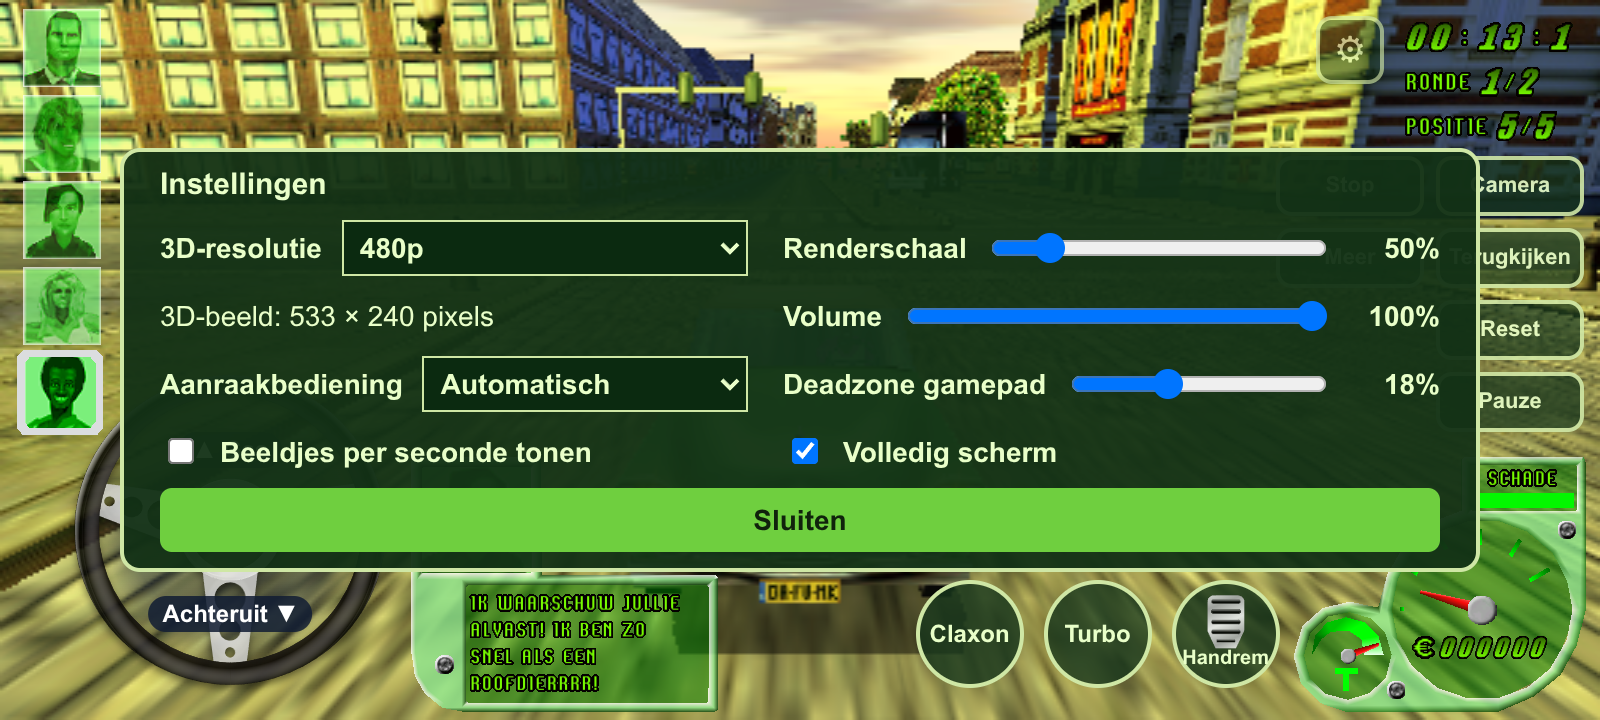
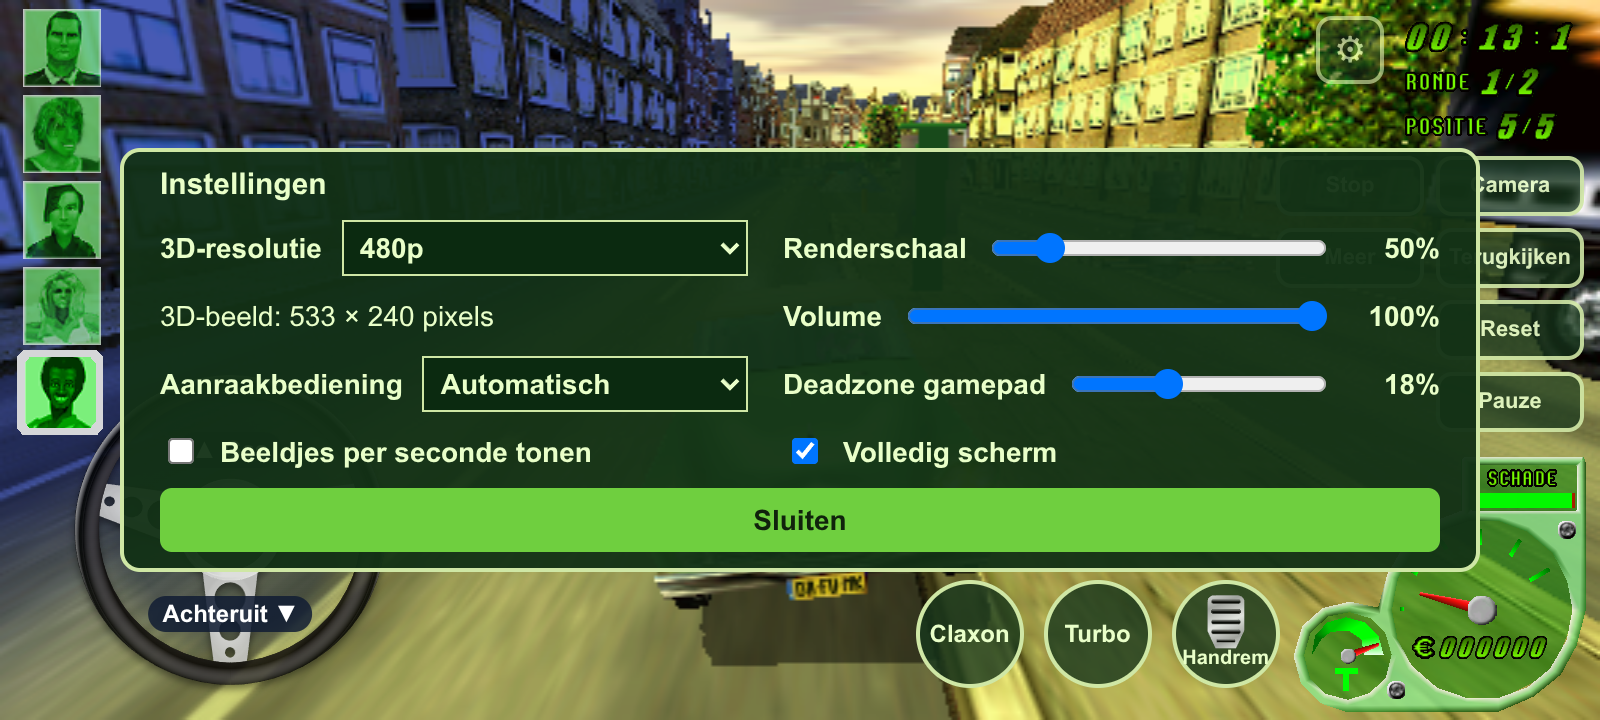
Keep wheels at their size between ticks (1.1.3)
Wheels have their own world matrix and turn about 60 degrees per tick at
speed. Blended element by element between ticks they shrank to as little as
66% and skewed. A matrix turning more than 20 degrees in a tick now keeps
the latest tick's rotation and blends its position only. Add
tools/check-wheels.mjs and its evidence.

diff --git a/source/render/d3d-renderer.js b/source/render/d3d-renderer.js
@@ -23,6 +23,10 @@ const NO_TEXTURE = 0xFFFF;
 const MAX_ARRAYS = 6;
 // A tick moving a matrix further than this is a teleport, not motion: no blending.
 const TELEPORT_DIST2 = 30 * 30;
+// A matrix turning further than this in one tick, such as a wheel at speed, keeps the latest tick's
+// rotation and blends its position only: blended element by element, two poses 60 degrees apart
+// give a wheel shrunk to 87% and skewed halfway between ticks. cos(20 degrees).
+const SPIN_COS = Math.cos(20 * Math.PI / 180);
 const TICK_MS = 1000 / 60;      // TICK_SECONDS in race-runner.js
 // Vertex arrays in game memory. gfx_wolk and gfx_bwlk sort their 70 slots every frame, so one
 // address holds another puff each tick: FUN_00446fe0, FUN_0043de00. Flag: FUN_0043fff0.
@@ -233,6 +237,18 @@ void main() {
 
 /** One coordinate of the eye of a view matrix, from the row of memory it is the dot product with. */
 const eyeAxis = (v, o) => -(v[12] * v[o] + v[13] * v[o + 1] + v[14] * v[o + 2]);
+
+/** Cosine of the angle of the rotation between two matrices' 3x3 parts, rows normalised for scale. */
+function turnCos(a, q, b, o) {
+  let trace = 0;
+  for (let r = 0; r < 12; r += 4) {
+    const la = Math.hypot(a[q + r], a[q + r + 1], a[q + r + 2]);
+    const lb = Math.hypot(b[o + r], b[o + r + 1], b[o + r + 2]);
+    if (!la || !lb) return 1;
+    trace += (a[q + r] * b[o + r] + a[q + r + 1] * b[o + r + 1] + a[q + r + 2] * b[o + r + 2]) / (la * lb);
+  }
+  return (trace - 1) / 2;
+}
 
 class Frame {
   constructor() {
@@ -1330,6 +1346,13 @@ export class D3DRenderer {
       const dz = bm[o + 14] - am[q + 14];
       if (dx * dx + dy * dy + dz * dz > TELEPORT_DIST2) {
         for (let j = 0; j < 16; j++) pal[o + j] = bm[o + j];
+        continue;
+      }
+      if (turnCos(am, q, bm, o) < SPIN_COS) {
+        for (let j = 0; j < 16; j++) pal[o + j] = bm[o + j];
+        pal[o + 12] = am[q + 12] + dx * alpha;
+        pal[o + 13] = am[q + 13] + dy * alpha;
+        pal[o + 14] = am[q + 14] + dz * alpha;
         continue;
       }
       for (let j = 0; j < 16; j++) pal[o + j] = am[q + j] + (bm[o + j] - am[q + j]) * alpha;

diff --git a/public/src/main.js b/public/src/main.js
@@ -29438,6 +29438,7 @@ var MAX_DYNAMIC_FLOATS = 2e5;
 var NO_TEXTURE = 65535;
 var MAX_ARRAYS = 6;
 var TELEPORT_DIST2 = 30 * 30;
+var SPIN_COS = Math.cos(20 * Math.PI / 180);
 var TICK_MS = 1e3 / 60;
 var SMOKE_VERTS = [7295120, 7316120];
 var BWLK_VERTS = [7094792, 7115792];
@@ -29643,6 +29644,16 @@ void main() {
   c = vec4(hud.rgb + texture(uWorld, sharp(uWorldSize)).rgb * (1.0 - hud.a), 1.0);
 }`;
 var eyeAxis = (v, o) => -(v[12] * v[o] + v[13] * v[o + 1] + v[14] * v[o + 2]);
+function turnCos(a, q, b, o) {
+  let trace = 0;
+  for (let r = 0; r < 12; r += 4) {
+    const la = Math.hypot(a[q + r], a[q + r + 1], a[q + r + 2]);
+    const lb = Math.hypot(b[o + r], b[o + r + 1], b[o + r + 2]);
+    if (!la || !lb) return 1;
+    trace += (a[q + r] * b[o + r] + a[q + r + 1] * b[o + r + 1] + a[q + r + 2] * b[o + r + 2]) / (la * lb);
+  }
+  return (trace - 1) / 2;
+}
 var Frame = class {
   constructor() {
     this.matrices = new Float32Array(MAX_MATRICES * 16);
@@ -30723,6 +30734,13 @@ var D3DRenderer = class {
       const dz = bm[o + 14] - am[q + 14];
       if (dx * dx + dy * dy + dz * dz > TELEPORT_DIST2) {
         for (let j = 0; j < 16; j++) pal[o + j] = bm[o + j];
+        continue;
+      }
+      if (turnCos(am, q, bm, o) < SPIN_COS) {
+        for (let j = 0; j < 16; j++) pal[o + j] = bm[o + j];
+        pal[o + 12] = am[q + 12] + dx * alpha;
+        pal[o + 13] = am[q + 13] + dy * alpha;
+        pal[o + 14] = am[q + 14] + dz * alpha;
         continue;
       }
       for (let j = 0; j < 16; j++) pal[o + j] = am[q + j] + (bm[o + j] - am[q + j]) * alpha;

diff --git a/docs/intentional-differences.md b/docs/intentional-differences.md
@@ -36,7 +36,7 @@ A row says what the port does. It does not say the row was verified: what was ch
 | Simulation rate | One pass of the main loop per rendered frame, at whatever rate the machine gives, with a smoothed `dt`. Measured under Wine: nothing in the program limits the rate except `Flip`. Under Xvfb with llvmpipe, where `Flip` does not wait, it runs at 317 to 393 ticks per second, and on a clean clock the gas pedal hardly rises there (highest speed 1.25 to 12.7 m/s in 12 s) | Fixed 60 passes per second. `dt` comes from `hook!updateClock`, see Clock ring | Reasoning in `original-behavior.md`, timing section. It was not possible to establish what rate the developers tuned at. Held to 60 ticks per second from outside, the original and the port agree by movement state: [`validation.md`](validation.md). What the owner's fixes part 13 covers runs as it did at 25 FPS: chase camera, skid marks, smoke, police brake, car lighting and the rest in `tools/recomp/owner-fixes/README.md`. Other logic that runs per pass stays at its 60-tick values. Against a machine at 30 FPS: the copalert level falls from 100 to 0 in 0.25 s against 0.5 s; particle counts differ (bases 15 and 35 give 9 and 29 against 4 and 24); AI re-placement tries at 20% per tick, so 12 times a second against 6; cylinder pops draw one or two `rand()` per pass and radio states step once per pass, so the random stream and radio timing differ too |
 | Clock ring | `FUN_004a6700` fills a 4-entry ring from a float counter. The first sample holds the counter's whole value at clock init, the second the time `L` from clock init to the first tick. Ticks 1 to 3 are capped at 0.1 s on any machine up for more than a second, tick 4 only if `L` is above about 0.68 s at 60 Hz. Measured under Wine at 60 ticks: `L` 8.42 ms, `dt` in ticks 1 to 6 0.1, 0.1, 0.1, 0.0158, 0.0185, 0.0166, tick 4 not capped at any rate tried. Clock noise puts `dt*300` just under or over 5, so the truncating gas step of `FUN_0046f2a0` mixes +4 and +5: 21 to 23 ticks to full gas | `hook!updateClock` in `source/host/race.js` keeps the ring, so race start and dialog returns read as in the original. First sample: the clock's value at init. Second: `INIT_TO_FIRST_TICK`, 8.4 ms, as measured. Every later sample is exactly 1/60 s. A steady ring gives `dt` one tick with its last bit alternating, in place of the clock noise | `dt` in ticks 1 to 6: 0.1, 0.1, 0.1, 0.0156, 0.0167, 0.0167. Physics delta in ticks 4, 5, 6: 0.0789, 0.0665, 0.0582 against 0.0790, 0.0669, 0.0585, so the physics lead at GO is close to the original's. GO at pass 283 against 280 or 281, since this `dt` has no noise. The alternation is deliberate and measured, not noise: `dt*300` falls just under and over 5, so the gas step mixes +4 and +5, 23 ticks to full gas (4, 9, 13, 18, 22, 27...) against 21 to 23 in the original (5, 9, 13, 18, 22, 27...). With a fixed `dt` it took 19 ticks (5, 10, 15...). 8.4 ms is that machine's `L`: another machine will differ, and a machine with `L` above about 0.68 s would cap tick 4 |
 | Traffic pushes | `FUN_00428950` and `FUN_00415E40` push traffic and path vehicles once per frame with no time step, so traffic gets stronger with the frame rate up to 66 FPS and lifts its nose | Scaled by `min(1, tick * 25)`, as the owner's `A2-Racer-4-Fixes` part 9 does (`traffic_mass`): one whole push per 1/25 s | Highest nose rise at 60 ticks with whole pushes 0.742, against 0.74 in the owner's table for the original under Wine. With the scale 0.208, against 0.18 for his patched game under Wine. The means cover more starts of more kinds than his, so they are not comparable. So this follows the patched game, not the unpatched one. His `trailer_push` is not applied: that code has no route in the shipped game |
-| Rendering rate | Same as simulation | Browser's rate, no cap. World matrices, the camera and moving vertices blend between the last two ticks. The camera cuts only when its eye jumps more than 30 units in one tick, as on a camera switch. `gfx_wolk` smoke, `gfx_bwlk` and all particles including sparks show the latest tick, because their slots are re-sorted or shift, so nothing can be paired across ticks | Up to one tick (16.7 ms) of added visual latency. On displays above 60 Hz smoke, `gfx_bwlk` and particles step at 60 Hz while the rest moves smoothly. Blob shadows blend with their car. The player's shadow moves with its car: its polygons of the latest tick are carried from the car's pose of that tick to the car's blended pose, so it stays where the game put it under the car. Also not blended: skid-mark strips whose vertex count changed, and any moving draw whose first vertex moved more than 30 units. Under a pause or quit dialog and at the end of a race the picture stays on its key tick's frame |
+| Rendering rate | Same as simulation | Browser's rate, no cap. World matrices, the camera and moving vertices blend between the last two ticks. A matrix that turns more than 20 degrees in a tick, such as a wheel at speed, keeps the latest tick's rotation and blends only its position, so a wheel keeps its size and shape. The camera cuts only when its eye jumps more than 30 units in one tick, as on a camera switch. `gfx_wolk` smoke, `gfx_bwlk` and all particles including sparks show the latest tick, because their slots are re-sorted or shift, so nothing can be paired across ticks | Up to one tick (16.7 ms) of added visual latency. On displays above 60 Hz smoke, `gfx_bwlk` and particles step at 60 Hz while the rest moves smoothly. Blob shadows blend with their car. The player's shadow moves with its car: its polygons of the latest tick are carried from the car's pose of that tick to the car's blended pose, so it stays where the game put it under the car. Also not blended: skid-mark strips whose vertex count changed, and any moving draw whose first vertex moved more than 30 units. Under a pause or quit dialog and at the end of a race the picture stays on its key tick's frame |
 | Falling behind | `dt` capped at 0.1 s, so game time slows while `GetTickCount` timers keep real time, and a slow machine loses race time | Elapsed time capped at 0.25 s per frame and at most 6 ticks per displayed frame, the rest dropped. `dt` stays one tick | Same direction: game time slows rather than jumps. Race timers slow with the game instead of keeping real time. No check reached this: the benchmark held 60 FPS |
 | FPS gates | `FUN_0041cae0` skips AI re-placement below 15 FPS. `FUN_0043dd90` and `FUN_00446c70` skip spawns at about 12. `FUN_0043de00` and `FUN_00446fe0` wipe effects below 10. `FUN_0044cb30` lowers visible chunks by 1 per tick below 10, down to 15 or 25 | `dt` reads 0.1 for the first 3 ticks and about one tick from tick 4 on, whatever the device does | The gates do not fire after the start, even when the browser falls behind. `FUN_0044cb30` needs state 0 and the first ticks are in state 1, so the view distance governor never fires. View distance and effects stay full on a slow device: the price of a fixed tick. The 8-bit path, where this shows most: see 8-bit path: slow machines |
 | Focus loss | Message pump blocks while inactive. Wall-clock race timers keep running, and the first ticks after the return are capped | Ticks and the virtual clock stop, sound suspends, keys and touches release; the clock does not jump on return | Silence while away, as in the original (inferred from DirectSound's documentation), but sound positions stand still here. Timers differ on purpose: a hidden tab cannot lose a race |

diff --git a/README.md b/README.md
@@ -2,7 +2,7 @@
 
 **Play it: <https://games.nostalgiarealm.com/a2racer4/>**
 
-Version 1.1.2. [Changelog](CHANGELOG.md), [release notes](docs/releases/1.1.2.md). Downloads: [GitHub](https://github.com/NostalgiaRealm/A2-Racer-4/releases/latest), [GitLab](https://gitlab.com/Nostalgia_Realm/A2-Racer-4/-/releases). Repositories: [GitHub](https://github.com/NostalgiaRealm/A2-Racer-4), [GitLab](https://gitlab.com/Nostalgia_Realm/A2-Racer-4).
+Version 1.1.3. [Changelog](CHANGELOG.md), [release notes](docs/releases/1.1.3.md). Downloads: [GitHub](https://github.com/NostalgiaRealm/A2-Racer-4/releases/latest), [GitLab](https://gitlab.com/Nostalgia_Realm/A2-Racer-4/-/releases). Repositories: [GitHub](https://github.com/NostalgiaRealm/A2-Racer-4), [GitLab](https://gitlab.com/Nostalgia_Realm/A2-Racer-4).
 
 A port of the Dutch racing game from 2000 to WebGL and Three.js, built from the original game files. The race itself is the original code: `spel.dat` is recompiled from x86 to WebAssembly, so its physics, AI, rules and HUD logic run as shipped. The menu is rewritten by hand from the original forms and code. All artwork, music, speech and text are the originals, in Dutch.
 
@@ -149,6 +149,7 @@ They do not start a server or bundle anything. Have `npm start` running in anoth
 | `node tools/check-driving.mjs --json evidence/driving/amsterdam-no-opponents.json` | Scripted driving, no opponents, prints speeds. Repeatable | No |
 | `node tools/check-owner-fixes.mjs --out evidence/owner-fixes/races-with-fixes.json` | Whole bot races on all 10 etappes, reading the state of the owner's added code: 25 Hz tick, camera, `hung_check`. `--game` points at another build | No |
 | `node tools/check-shadow.mjs --hz 144 --out evidence/shadow/summary-144hz.json` | The player's shadow in its car's frame per presented frame, with the bot on Amsterdam. `--hz` stands in for a display rate | Yes |
+| `node tools/check-wheels.mjs --hz 144 --out evidence/wheels/summary-144hz.json` | The wheels' matrices as drawn between ticks, with the bot on Amsterdam: 1 is a wheel at its own size | Yes |
 | `node tools/check-traffic.mjs --hz 60` | Traffic nose rise on the owner's method. Also `--hz 30` and `--whole-push`, one JSON line each; `evidence/traffic/nose-rise.jsonl` holds the four | No |
 | `node tools/run-bot.mjs` | A whole race in Node with opponents and traffic. Prints progress and what it writes to `game.ini` | No |
 | `node tools/build-race-lists.mjs` | Boots all 10 etappes with all 8 cars for 2 s, and all 10 at `RESOLUTION` 0 and 1, to list the files each race reads. Not a gameplay check | No |

diff --git a/docs/releases/1.1.3.md b/docs/releases/1.1.3.md
@@ -1,0 +1,27 @@
+# A2 Racer 4 v1.1.3 — the wheels
+
+The wheels of the cars no longer pulse. The browser port draws the picture between the last two game ticks so it runs smoothly at any display rate. Wheels at speed turn about 60 degrees per tick, and drawing them halfway between two such poses made them shrink and skew, by up to a third, every tick. Now a wheel keeps the turn the game gave it in the latest tick and only its position follows the car smoothly, so it always has its own size and shape, as on Windows and under Wine. Together with [1.1.2](1.1.2.md), which fixed the player's shadow, the car now looks as steady as in the original.
+
+Download from [GitHub](https://github.com/NostalgiaRealm/A2-Racer-4/releases/tag/v1.1.3) or [GitLab](https://gitlab.com/Nostalgia_Realm/A2-Racer-4/-/releases/v1.1.3), or play at <https://games.nostalgiarealm.com/a2racer4/>. [Changelog](../../CHANGELOG.md).
+
+## Downloads
+
+| Content | Files |
+|---|---|
+| Linux x64 | `A2-Racer-4-1.1.3-linux-x86_64.AppImage`, `A2-Racer-4-1.1.3-linux-x64.tar.gz` |
+| Windows x64 | `A2-Racer-4-1.1.3-win-x64.exe` (installer) |
+| macOS Apple Silicon | `A2-Racer-4-1.1.3-mac-arm64.dmg` |
+| macOS Intel | `A2-Racer-4-1.1.3-mac-x64.dmg` |
+| Source of the port | `A2-Racer-4-1.1.3-source.tar.gz`. The web build: `npm ci`, `npm run build`, then serve `dist/` |
+| Decompile | Unchanged since 1.0.0: in [the 1.0.0 release](https://github.com/NostalgiaRealm/A2-Racer-4/releases/tag/v1.0.0) |
+| Checksums and identity | `SHA256SUMS.txt`, `BUILD-INFO-1.1.3.json`, `CHANGELOG-1.1.3.md`, `integrity-*.json` |
+
+## What was checked
+
+| Kind | Scope | Result |
+|---|---|---|
+| Wheels as drawn | Bot on Amsterdam in a browser, 15 s at a 144 Hz stand-in for the display, 26,338 wheel matrices | Shortest row of a wheel's matrix 0.658 of its size at worst in 1.1.2, 1.000 now |
+| Shadow | The 1.1.2 check again | Still 0 movement within a tick |
+| Flow in a browser | Etappe 0, real clicks, a whole race by the bot; race UI 76 checks | Pass, no console errors |
+
+Not checked: a real display above 60 Hz, a phone, the packages started. Full list: [validation](../validation.md).

diff --git a/docs/validation.md b/docs/validation.md
@@ -193,6 +193,17 @@ By state only. Nobody has listened to the port. From one-off scripts when the fi
 
 What is left from frame to frame is the game rebuilding the shadow on the next tick, as the original does. Headless Chromium presents nearly in step with the 60 Hz tick, at alpha 0.94 to 0.98, which hid the slide. A real display at 60 Hz drifts against the tick, and one above 60 Hz always shows it. No real display was used. The original was not compared: it draws car and shadow from the same tick, which this now does too. check-flow and check-race-ui pass on the change.
 
+### The wheels
+
+`tools/check-wheels.mjs`, `evidence/wheels/`. Each car's four wheels have their own world matrix, which turns 63 degrees per tick on average with the bot on Amsterdam. Per presented frame, at a 144 Hz stand-in for 15 s, the check reads the matrices drawn for every pair turning more than 20 degrees in a tick and measures their rows against the latest tick's: 1 is the wheel at its size and shape.
+
+| | Matrices | Shortest row, lowest | Shortest row, mean |
+|---|---:|---:|---:|
+| 1.1.2, element by element | 26,320 | 0.658 | 0.924 |
+| 1.1.3, rotation of the latest tick | 26,338 | 1.000 | 1.000 |
+
+So in 1.1.2 a wheel shrank and skewed between ticks and pulsed with the display. check-flow, check-race-ui and check-shadow pass on the change. No real display above 60 Hz was used.
+
 ### The owner's fixes
 
 `A2-Racer-4-Fixes` 1.5.4 parts 11, 12 and 13 in `spel.wasm` since 1.1.0: `tools/recomp/owner-fixes/README.md`. Checked on 2026-11-03.

diff --git a/docs/parity/render.md b/docs/parity/render.md
@@ -237,6 +237,7 @@ The original has no such thing, so nothing here can be compared with it. In `doc
 |---|---|---|---|---|
 | World rows blended, cut above 30 units | none | yes (host) | not verified | `blendPalette`, `endFrame` |
 | Camera blended through turns, cut when the eye jumps above 30 units | `FUN_004b3a60`, row 3 is `-dot(axis, eye)` | yes (host) | fix check: 28 s at a 144 Hz stand-in, 4031 presents, 0 unblended; 60 Hz, 1680, 0; camera switches of 85 and 62 units cut | `eyeAxis`, `blendPalette` |
+| Wheels keep their size and shape between ticks | none | yes (host) | checked on Amsterdam: check-wheels | At a 144 Hz stand-in, 26,338 wheel matrices drawn between ticks: shortest row 0.658 of its length in 1.1.2, 1.000 now. `SPIN_COS`, `turnCos` in `source/render/d3d-renderer.js` |
 | The player's shadow moves with its car between ticks | `FUN_00443770` copies the car's pose at `0x443ab8` | yes (host) | checked on Amsterdam: check-shadow | At a 144 Hz stand-in, within one tick the shadow moved in the car's frame by 2.87 units on average and 3.67 at most in 1.1.1, 0 now. `hook!playerShadow`, `blendPalette` |
 | Moving vertices blended, same count, first vertex within 30 units | none | yes (host) | fix check: 67 of 3842 pairs in 1168 ticks were above 30 units before the first-vertex test | `noteMoving`, `blendPalette`. Skid strips, player's shadow, flag |
 | Blob shadows blend with their car | `FUN_00443ef0` | yes (host) | fix check: recorded as moving vertices, same run | `drawIndexed`, 4 vertices with `ZBIAS` |

diff --git a/docs/behavior/render.md b/docs/behavior/render.md
@@ -823,6 +823,7 @@ Rank portraits differ by the opponents' order, which is not the same run. Remain
 | What | Between ticks | Cut when |
 |---|---|---|
 | World matrix rows | Blended | Pair missing, or translation moved more than 30 units (`TELEPORT_DIST2`). A draw that shows the latest tick has no pair |
+| World matrices that turn more than 20 degrees in a tick: wheels at speed | Position blended, rotation of the latest tick (`SPIN_COS`, since 1.1.3) | As above. Each car's four wheels have their own matrix and turn about 60 degrees a tick at speed; blended element by element they shrank to 66% and skewed between ticks |
 | Moving vertices of `drawPrimitive`: skid strips, flag | Blended | Vertex count changed, or first vertex moved more than 30 units |
 | The player's shadow (`FUN_00443770`) | Carried with its car: the latest tick's polygons, from the car's pose of that tick to its blended pose | The car moved more than 30 units in the tick |
 | Blob shadows: 4-vertex `drawIndexed` with `ZBIAS` | Blended with their cars | As above |

diff --git a/CHANGELOG.md b/CHANGELOG.md
@@ -1,5 +1,17 @@
 # Changelog
 
+## 1.1.3 — 2026-11-03
+
+The wheels no longer pulse. [Release notes](docs/releases/1.1.3.md).
+
+### Fixed
+
+- Each car's wheels have their own matrix and turn about 60 degrees per tick at speed. Blending that matrix element by element between ticks shrank and skewed the wheels halfway, by up to a third. A matrix turning more than 20 degrees in a tick now keeps the latest tick's rotation and blends its position only.
+
+### Added
+
+- `tools/check-wheels.mjs`: the size of the wheels as drawn between ticks.
+
 ## 1.1.2 — 2026-11-03
 
 The player's shadow no longer jitters under the car. [Release notes](docs/releases/1.1.2.md).
